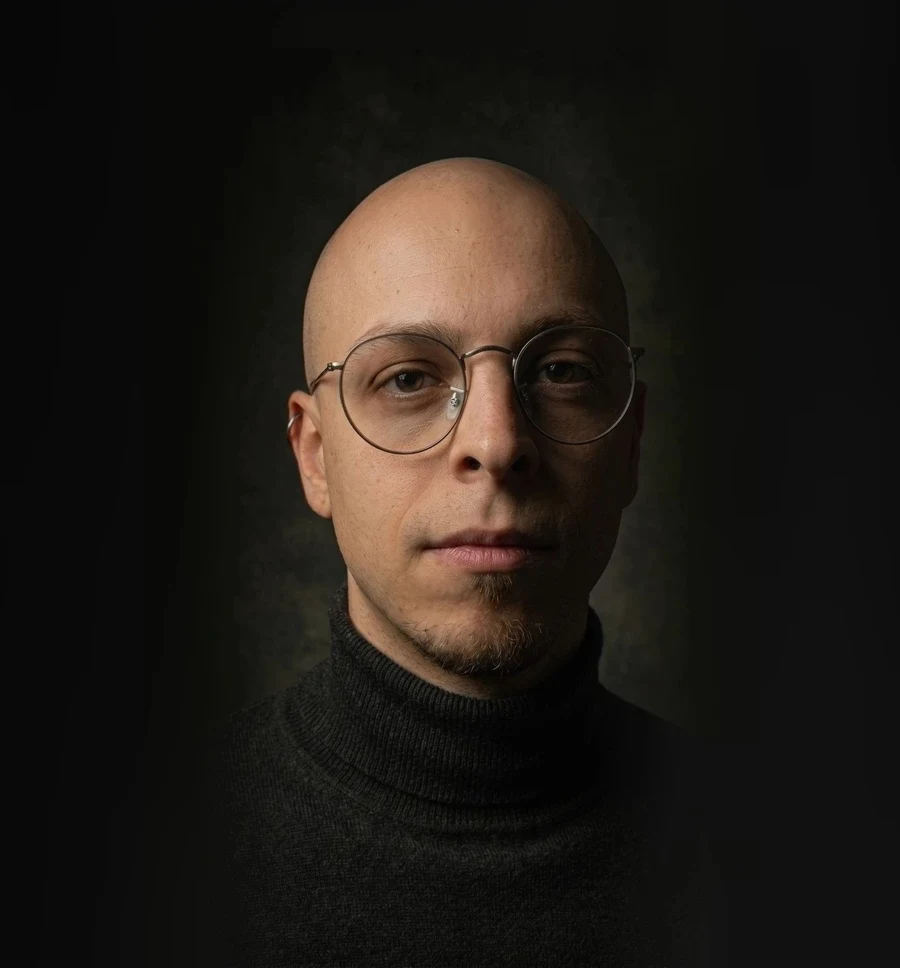
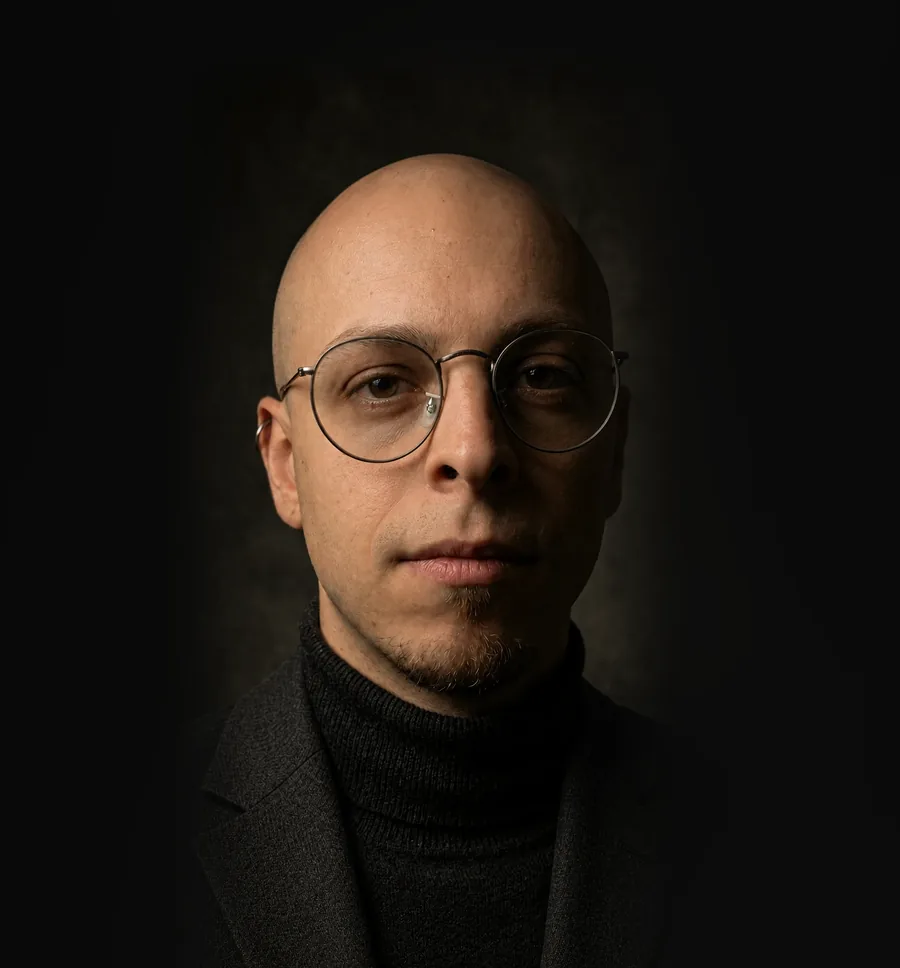
Nuova foto in home: ritratto con giacca (#446)
* Firma scritta a mano su nome e saluto in home

Destiny Signature (sottoinsieme latino, woff2) solo per il nome nella
barra in alto e per il saluto in home; gli altri titoli restano in
Bodoni Moda. Dimensioni e interlinea adattate perché le lettere lunghe
non tocchino il testo sotto.

Claude-Session: https://claude.ai/code/session_0117AcoAoRNxCeiVuVm8eKGz

* Saluto in home senza punto finale

Claude-Session: https://claude.ai/code/session_0117AcoAoRNxCeiVuVm8eKGz

* Home: saluto in arancione, link di testo e striscia senza blocchi laterali

- "Ciao, sono Nicolò Forcolin" nel colore d'accento.
- I due pulsanti diventano link di testo arancioni sottolineati, alti
  almeno 44px; rimosse tutte le regole .hero-btn che li servivano.
- Tolti i due rettangoli arancioni ai lati della striscia dei progetti,
  con le regole CSS e la variabile --rail-width.

Claude-Session: https://claude.ai/code/session_0117AcoAoRNxCeiVuVm8eKGz

* Skyline di Padova in fondo alle pagine interne

Disegno della città sopra la riga del piè di pagina ("Padova, Italia")
su tutte le pagine tranne la home. Firma originale ritagliata via;
il fondo quasi nero del disegno si fonde con quello del sito tramite
mix-blend-mode: lighten.

Claude-Session: https://claude.ai/code/session_0117AcoAoRNxCeiVuVm8eKGz

* Anteprima dei link con lo skyline di Padova

og:image e twitter:image di tutte le pagine puntano a og-padova.jpg
(1200x630, disegno di Padova con la firma). og-image.png resta come
[…]

diff --git a/index.html b/index.html
@@ -96,9 +96,9 @@
     <div class="hero-photo-frame">
       <a class="scroll-btn" href="#hero-name"><span data-i18n="scroll_btn">Entra nel sito</span><svg viewBox="0 0 16 16" width="16" height="16" fill="none" stroke="currentColor" stroke-width="1.75" stroke-linecap="round" stroke-linejoin="round" aria-hidden="true" focusable="false"><path d="M8 2.5v11M3.5 9 8 13.5 12.5 9"/></svg></a>
       <picture>
-        <source media="(max-width:700px)" srcset="photo-mobile.webp?v=18" type="image/webp">
-        <source srcset="photo.webp?v=18" type="image/webp">
-        <img class="hero-portrait" id="avatarPhoto" src="photo.webp?v=18" alt="Nicolò Forcolin" width="2000" height="848" fetchpriority="high">
+        <source media="(max-width:700px)" srcset="photo-mobile.webp?v=19" type="image/webp">
+        <source srcset="photo.webp?v=19" type="image/webp">
+        <img class="hero-portrait" id="avatarPhoto" src="photo.webp?v=19" alt="Nicolò Forcolin" width="2000" height="848" fetchpriority="high">
       </picture>
     </div>
   </div>

diff --git a/tests/site-regression.test.js b/tests/site-regression.test.js
@@ -69,8 +69,8 @@ assert(home.includes('id="heroIntro"'), 'Hero intro paragraph missing');
 for (const language of ['it', 'en']) assert(dictionaries[language].includes('hero_intro:'), language + ': hero intro missing');
 assert(home.includes('data-i18n="skip_to_content"'), 'Skip link must be translated');
 assert(home.includes('class="hero-filmstrip"'), 'Hero filmstrip must link to the real pages');
-assert(home.includes('srcset="photo.webp?v=18"'), 'New portrait must be displayed');
-assert(home.includes('srcset="photo-mobile.webp?v=18"'), 'Mobile portrait crop must be displayed');
+assert(home.includes('srcset="photo.webp?v=19"'), 'New portrait must be displayed');
+assert(home.includes('srcset="photo-mobile.webp?v=19"'), 'Mobile portrait crop must be displayed');
 assert(!home.includes('class="info-dialog"'), 'Project dialogs were replaced by pages');
 
 assert(read('rag-aziendale.html').includes('data-i18n="c1_summary"'), 'RAG summary must remain');
